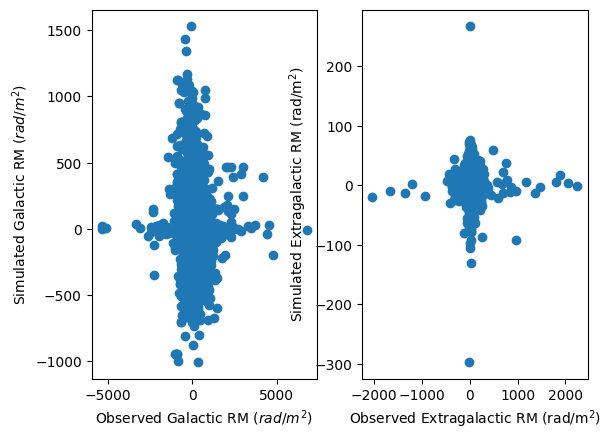
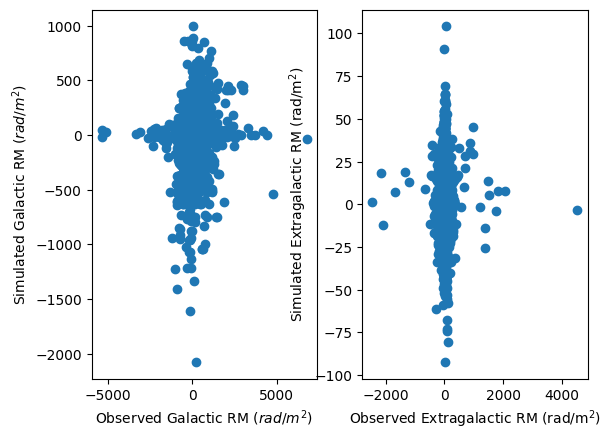
added prior mean and std management

diff --git a/src/model_library/extra_galactic_models/ExtraGalModel.py b/src/model_library/extra_galactic_models/ExtraGalModel.py
@@ -8,20 +8,32 @@ import math as m
 from ...operators.InverseGamma import InverseGammaOperator
 
 class ExtraGalModel(Model):
-    def __init__(self, target_domain, args):
+    def __init__(self, target_domain, args, use_prior_params=False):
 
         self.z = args['z']
         self.F = args['F']
         self.params = args['params']
+        self.use_prior_params = use_prior_params
         
         super().__init__(target_domain)
 
  
     def set_model(self):
+        mean_one = self.params['prior_mean.prior_mean_one'] if self.use_prior_params else self.params['mean.mean_one']
+        std_one = self.params['prior_std.prior_std_one'] if self.use_prior_params else self.params['std.std_one']
+        mean_int = self.params['prior_mean.prior_mean_int'] if self.use_prior_params else self.params['mean.mean_int']
+        std_int = self.params['prior_std.prior_std_int'] if self.use_prior_params else self.params['std.std_int']
+        mean_env = self.params['prior_mean.prior_mean_env'] if self.use_prior_params else self.params['mean.mean_env']
+        std_env = self.params['prior_std.prior_std_env'] if self.use_prior_params else self.params['std.std_env']
+        mean_lum = self.params['prior_mean.prior_mean_lum'] if self.use_prior_params else self.params['mean.mean_lum']
+        std_lum = self.params['prior_std.prior_std_lum'] if self.use_prior_params else self.params['std.std_lum']
+        mean_red = self.params['prior_mean.prior_mean_red'] if self.use_prior_params else self.params['mean.mean_red']
+        std_red = self.params['prior_std.prior_std_red'] if self.use_prior_params else self.params['std.std_red']
+
 
         if(self.params['params.n_eg_params'] == 1): #1 param
-            multiply_sigma1 = ift.makeOp(ift.full(ift.DomainTuple.scalar_domain(), self.params['std.std_one']), sampling_dtype=float)
-            add_mu1 = ift.Adder(ift.full(ift.DomainTuple.scalar_domain(), self.params['mean.mean_one']))
+            multiply_sigma1 = ift.makeOp(ift.full(ift.DomainTuple.scalar_domain(), std_one), sampling_dtype=float)
+            add_mu1 = ift.Adder(ift.full(ift.DomainTuple.scalar_domain(), mean_one))
             chi1 = add_mu1 @ multiply_sigma1 @ ift.FieldAdapter(ift.DomainTuple.scalar_domain(), 'chi1') 
 
             expander_chi = ift.VdotOperator(ift.full(self.target_domain, 1.)).adjoint
@@ -31,10 +43,10 @@ class ExtraGalModel(Model):
             self._components.update({'chi1': chi1})
 
         if(self.params['params.n_eg_params'] == 2): #2 param
-            multiply_sigma_int = ift.makeOp(ift.full(ift.DomainTuple.scalar_domain(), self.params['std.std_int']), sampling_dtype=float)
-            multiply_sigma_env = ift.makeOp(ift.full(ift.DomainTuple.scalar_domain(), self.params['std.std_env']), sampling_dtype=float)
-            add_mu_int = ift.Adder(ift.full(ift.DomainTuple.scalar_domain(), self.params['mean.mean_int']))
-            add_mu_env = ift.Adder(ift.full(ift.DomainTuple.scalar_domain(), self.params['mean.mean_env']))
+            multiply_sigma_int = ift.makeOp(ift.full(ift.DomainTuple.scalar_domain(), std_int), sampling_dtype=float)
+            multiply_sigma_env = ift.makeOp(ift.full(ift.DomainTuple.scalar_domain(), std_env), sampling_dtype=float)
+            add_mu_int = ift.Adder(ift.full(ift.DomainTuple.scalar_domain(), mean_int))
+            add_mu_env = ift.Adder(ift.full(ift.DomainTuple.scalar_domain(), mean_env))
 
             chi_env_0 = add_mu_env @ multiply_sigma_env @ ift.FieldAdapter(ift.DomainTuple.scalar_domain(), 'chi_env_0')
             chi_int_0 = add_mu_int @ multiply_sigma_int @ ift.FieldAdapter(ift.DomainTuple.scalar_domain(), 'chi_int_0') 
@@ -100,12 +112,12 @@ class ExtraGalModel(Model):
 
 
         if(self.params['params.n_eg_params'] == 3): #3 param
-            multiply_sigma_int = ift.makeOp(ift.full(ift.DomainTuple.scalar_domain(), self.params['std.std_int']), sampling_dtype=float)
-            multiply_sigma_red = ift.makeOp(ift.full(ift.DomainTuple.scalar_domain(), self.params['std.std_red']), sampling_dtype=float)
-            multiply_sigma_env = ift.makeOp(ift.full(ift.DomainTuple.scalar_domain(), self.params['std.std_env']), sampling_dtype=float)
-            add_mu_int = ift.Adder(ift.full(ift.DomainTuple.scalar_domain(), self.params['mean.mean_int']))
-            add_mu_red = ift.Adder(ift.full(ift.DomainTuple.scalar_domain(), self.params['mean.mean_red']))
-            add_mu_env = ift.Adder(ift.full(ift.DomainTuple.scalar_domain(), self.params['mean.mean_env']))
+            multiply_sigma_int = ift.makeOp(ift.full(ift.DomainTuple.scalar_domain(), std_int), sampling_dtype=float)
+            multiply_sigma_red = ift.makeOp(ift.full(ift.DomainTuple.scalar_domain(), std_red), sampling_dtype=float)
+            multiply_sigma_env = ift.makeOp(ift.full(ift.DomainTuple.scalar_domain(), std_env), sampling_dtype=float)
+            add_mu_int = ift.Adder(ift.full(ift.DomainTuple.scalar_domain(), mean_int))
+            add_mu_red = ift.Adder(ift.full(ift.DomainTuple.scalar_domain(), mean_red))
+            add_mu_env = ift.Adder(ift.full(ift.DomainTuple.scalar_domain(), mean_env))
 
             chi_env_0 = add_mu_env @ multiply_sigma_env @ ift.FieldAdapter(ift.DomainTuple.scalar_domain(), 'chi_env_0')
             chi_red = add_mu_red @ multiply_sigma_red @ ift.FieldAdapter(ift.DomainTuple.scalar_domain(), 'chi_red') 
@@ -177,14 +189,14 @@ class ExtraGalModel(Model):
 
             #chi_lum = InverseGammaOperator(self.target_domain, self.alpha, self.q) @ ift.FieldAdapter(self.target_domain, 'chi_lum')
 
-            multiply_sigma_lum = ift.makeOp(ift.full(ift.DomainTuple.scalar_domain(), self.params['std.std_lum']), sampling_dtype=float)
-            multiply_sigma_int = ift.makeOp(ift.full(ift.DomainTuple.scalar_domain(), self.params['std.std_int']), sampling_dtype=float)
-            multiply_sigma_red = ift.makeOp(ift.full(ift.DomainTuple.scalar_domain(), self.params['std.std_red']), sampling_dtype=float)
-            multiply_sigma_env = ift.makeOp(ift.full(ift.DomainTuple.scalar_domain(), self.params['std.std_env']), sampling_dtype=float)
-            add_mu_lum = ift.Adder(ift.full(ift.DomainTuple.scalar_domain(), self.params['mean.mean_lum']))
-            add_mu_int = ift.Adder(ift.full(ift.DomainTuple.scalar_domain(), self.params['mean.mean_int']))
-            add_mu_red = ift.Adder(ift.full(ift.DomainTuple.scalar_domain(), self.params['mean.mean_red']))
-            add_mu_env = ift.Adder(ift.full(ift.DomainTuple.scalar_domain(), self.params['mean.mean_env']))
+            multiply_sigma_lum = ift.makeOp(ift.full(ift.DomainTuple.scalar_domain(), std_lum), sampling_dtype=float)
+            multiply_sigma_int = ift.makeOp(ift.full(ift.DomainTuple.scalar_domain(), std_int), sampling_dtype=float)
+            multiply_sigma_red = ift.makeOp(ift.full(ift.DomainTuple.scalar_domain(), std_red), sampling_dtype=float)
+            multiply_sigma_env = ift.makeOp(ift.full(ift.DomainTuple.scalar_domain(), std_env), sampling_dtype=float)
+            add_mu_lum = ift.Adder(ift.full(ift.DomainTuple.scalar_domain(), mean_lum))
+            add_mu_int = ift.Adder(ift.full(ift.DomainTuple.scalar_domain(), mean_int))
+            add_mu_red = ift.Adder(ift.full(ift.DomainTuple.scalar_domain(), mean_red))
+            add_mu_env = ift.Adder(ift.full(ift.DomainTuple.scalar_domain(), mean_env))
 
             chi_env_0 = add_mu_env @ multiply_sigma_env @ ift.FieldAdapter(ift.DomainTuple.scalar_domain(), 'chi_env_0')
             chi_red = add_mu_red @ multiply_sigma_red @ ift.FieldAdapter(ift.DomainTuple.scalar_domain(), 'chi_red') 

diff --git a/RM_decomposer.py b/RM_decomposer.py
@@ -2,6 +2,7 @@ import nifty8 as ift
 from catalog_maker import CatalogMaker
 import libs as Egf
 import numpy as np
+from src.helper_functions.logger import logger
 from src.helper_functions.parameters_maker import Parameters_maker
 import utilities as U
 import matplotlib
@@ -19,6 +20,7 @@ def run_inference(params):
     if(params['params.use_mock']):
         CatalogMaker(params, base_catalog=data).make_catalog()
         data = Egf.get_rm(filter_pulsars=True, version=f'{catalog_version}_sim', default_error_level=0.5, params=params)
+        logger.info("CREATED NEW MOCK CATALOG")        
 
     # filter
     z_indices = ~np.isnan(data['z_best'])

diff --git a/catalog_maker.py b/catalog_maker.py
@@ -105,7 +105,7 @@ class CatalogMaker():
         # set the extra-galactic model hyper-parameters and initialize the model
         egal_model_params = {'z': e_z, 'F': e_F, 'params': self.params}
         
-        emodel = Egf.ExtraGalModel(egal_data_domain, egal_model_params)
+        emodel = Egf.ExtraGalModel(egal_data_domain, egal_model_params, use_prior_params=True)
 
         #egal_mock_position = ift.from_random(emodel.get_model().domain, 'normal')
         egal_mock_position = ift.full(emodel.get_model().domain, 0.0)
